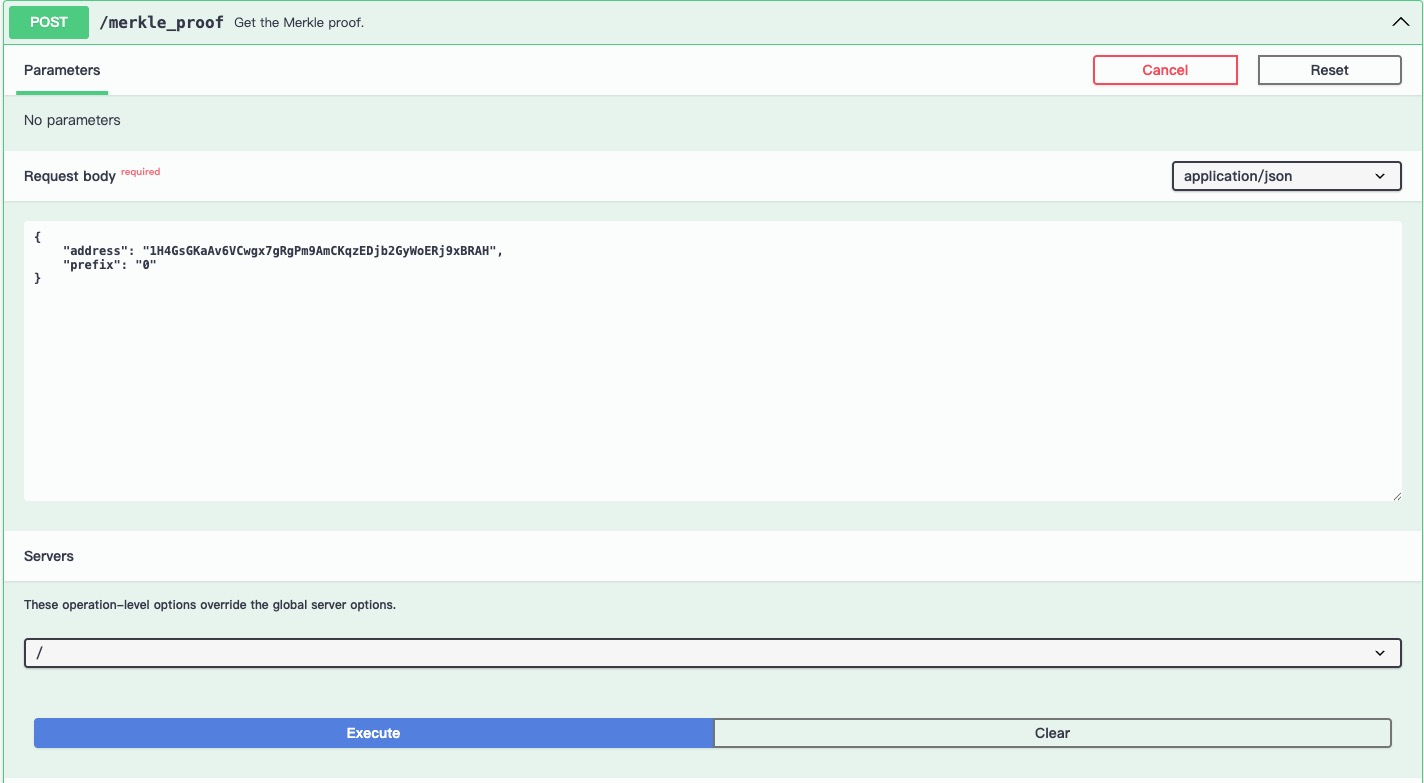
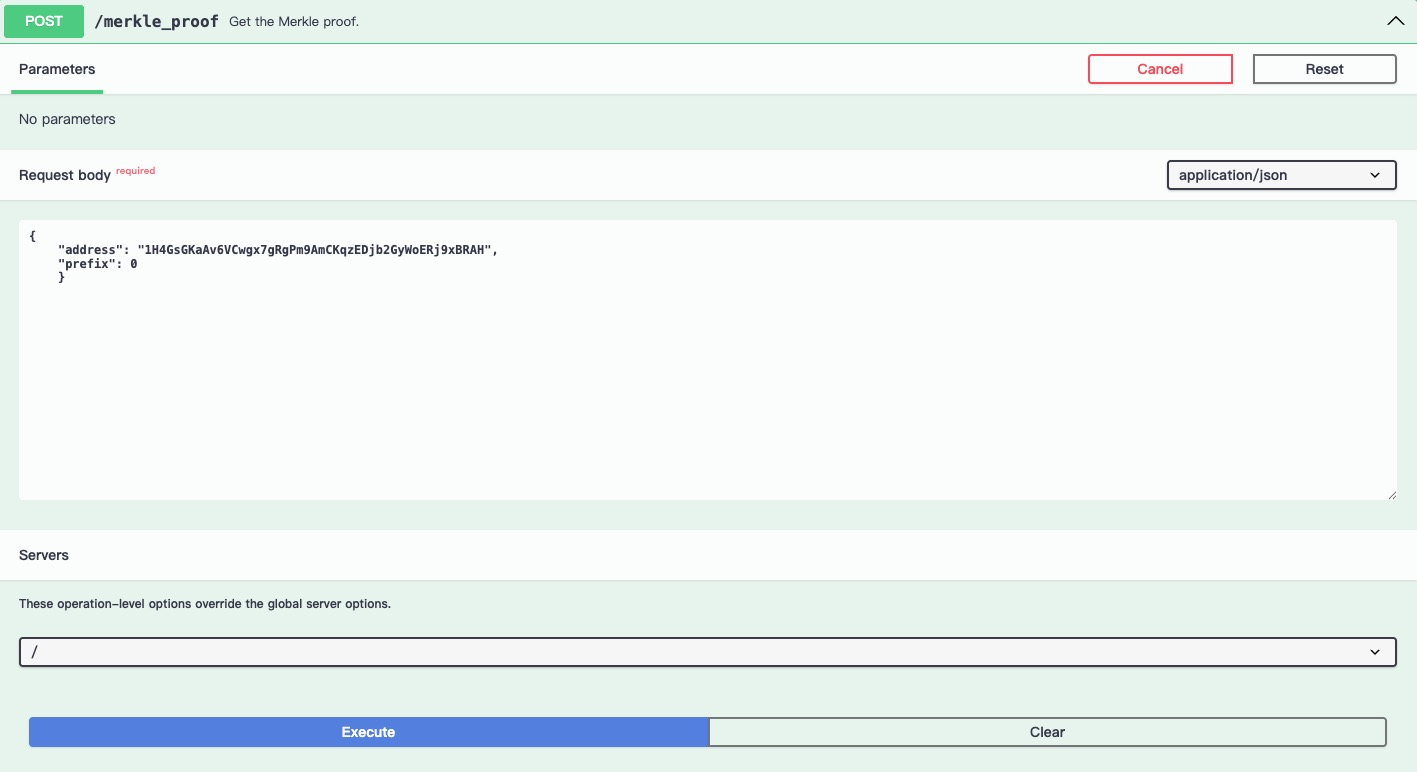
update

diff --git a/docs/test-guide-m2.md b/docs/test-guide-m2.md
@@ -88,7 +88,7 @@ docker-compose up
 
 The `prefix` is the name of the Merkle tree, and each Merkle tree is different.
 
-[http://localhost:8081/swagger-ui/#](http://localhost:8080/swagger-ui/#)
+[http://localhost:8081/swagger-ui/#](http://localhost:8081/swagger-ui/#)
 1. `update_value`  
    > Be used to insert, update, or delete a specific Merkle leaf value.
 
@@ -98,7 +98,7 @@ The `prefix` is the name of the Merkle tree, and each Merkle tree is different.
     "address": "1H4GsGKaAv6VCwgx7gRgPm9AmCKqzEDjb2GyWoERj9xBRAH",
     "balance": "1000000000000",
     "nonce": 1,
-    "prefix": "0"
+    "prefix": 0
     }
 
     ```
@@ -115,7 +115,7 @@ The `prefix` is the name of the Merkle tree, and each Merkle tree is different.
    ```
    {
     "address": "1H4GsGKaAv6VCwgx7gRgPm9AmCKqzEDjb2GyWoERj9xBRAH",
-    "prefix": "0" 
+    "prefix": 0
     }
    ```
    ![get_value](./images/m2/get_value.jpg)
@@ -134,7 +134,7 @@ The `prefix` is the name of the Merkle tree, and each Merkle tree is different.
    ```
    {
     "address": "1H4GsGKaAv6VCwgx7gRgPm9AmCKqzEDjb2GyWoERj9xBRAH",
-    "prefix": "0"
+    "prefix": 0
     }
    ```
    ![get_merkel_proof](./images/m2/get_merkel_proof.jpg)
@@ -180,7 +180,7 @@ The `prefix` is the name of the Merkle tree, and each Merkle tree is different.
    ```
    {
     "address": "1H4GsGKaAv6VCwgx7gRgPm9AmCKqzEDjb2GyWoERj9xBRAH",
-    "prefix": "0"
+    "prefix": 0
     }
 
    ```
@@ -198,7 +198,7 @@ The `prefix` is the name of the Merkle tree, and each Merkle tree is different.
     "address": "1H4GsGKaAv6VCwgx7gRgPm9AmCKqzEDjb2GyWoERj9xBRAH",
     "balance": "100",
     "nonce": 2,
-    "prefix": "0"
+    "prefix": 0
     }
 
    ```
@@ -216,7 +216,7 @@ The `prefix` is the name of the Merkle tree, and each Merkle tree is different.
     "address": "1H4GsGKaAv6VCwgx7gRgPm9AmCKqzEDjb2GyWoERj9xBRAH",
     "balance": "100",
     "nonce": 2,
-    "prefix": "0"
+    "prefix": 0
     }
    ```
    ![update_value1](./images/m2/update_value1.jpg)
@@ -229,7 +229,7 @@ The `prefix` is the name of the Merkle tree, and each Merkle tree is different.
    Request body:
    ```
    {
-    "prefix": "0"
+    "prefix": 0
     }
 
    ```
@@ -244,7 +244,7 @@ The `prefix` is the name of the Merkle tree, and each Merkle tree is different.
     Request body:
    ```
    {
-    "prefix": "0"
+    "prefix": 0
     }
 
    ```
